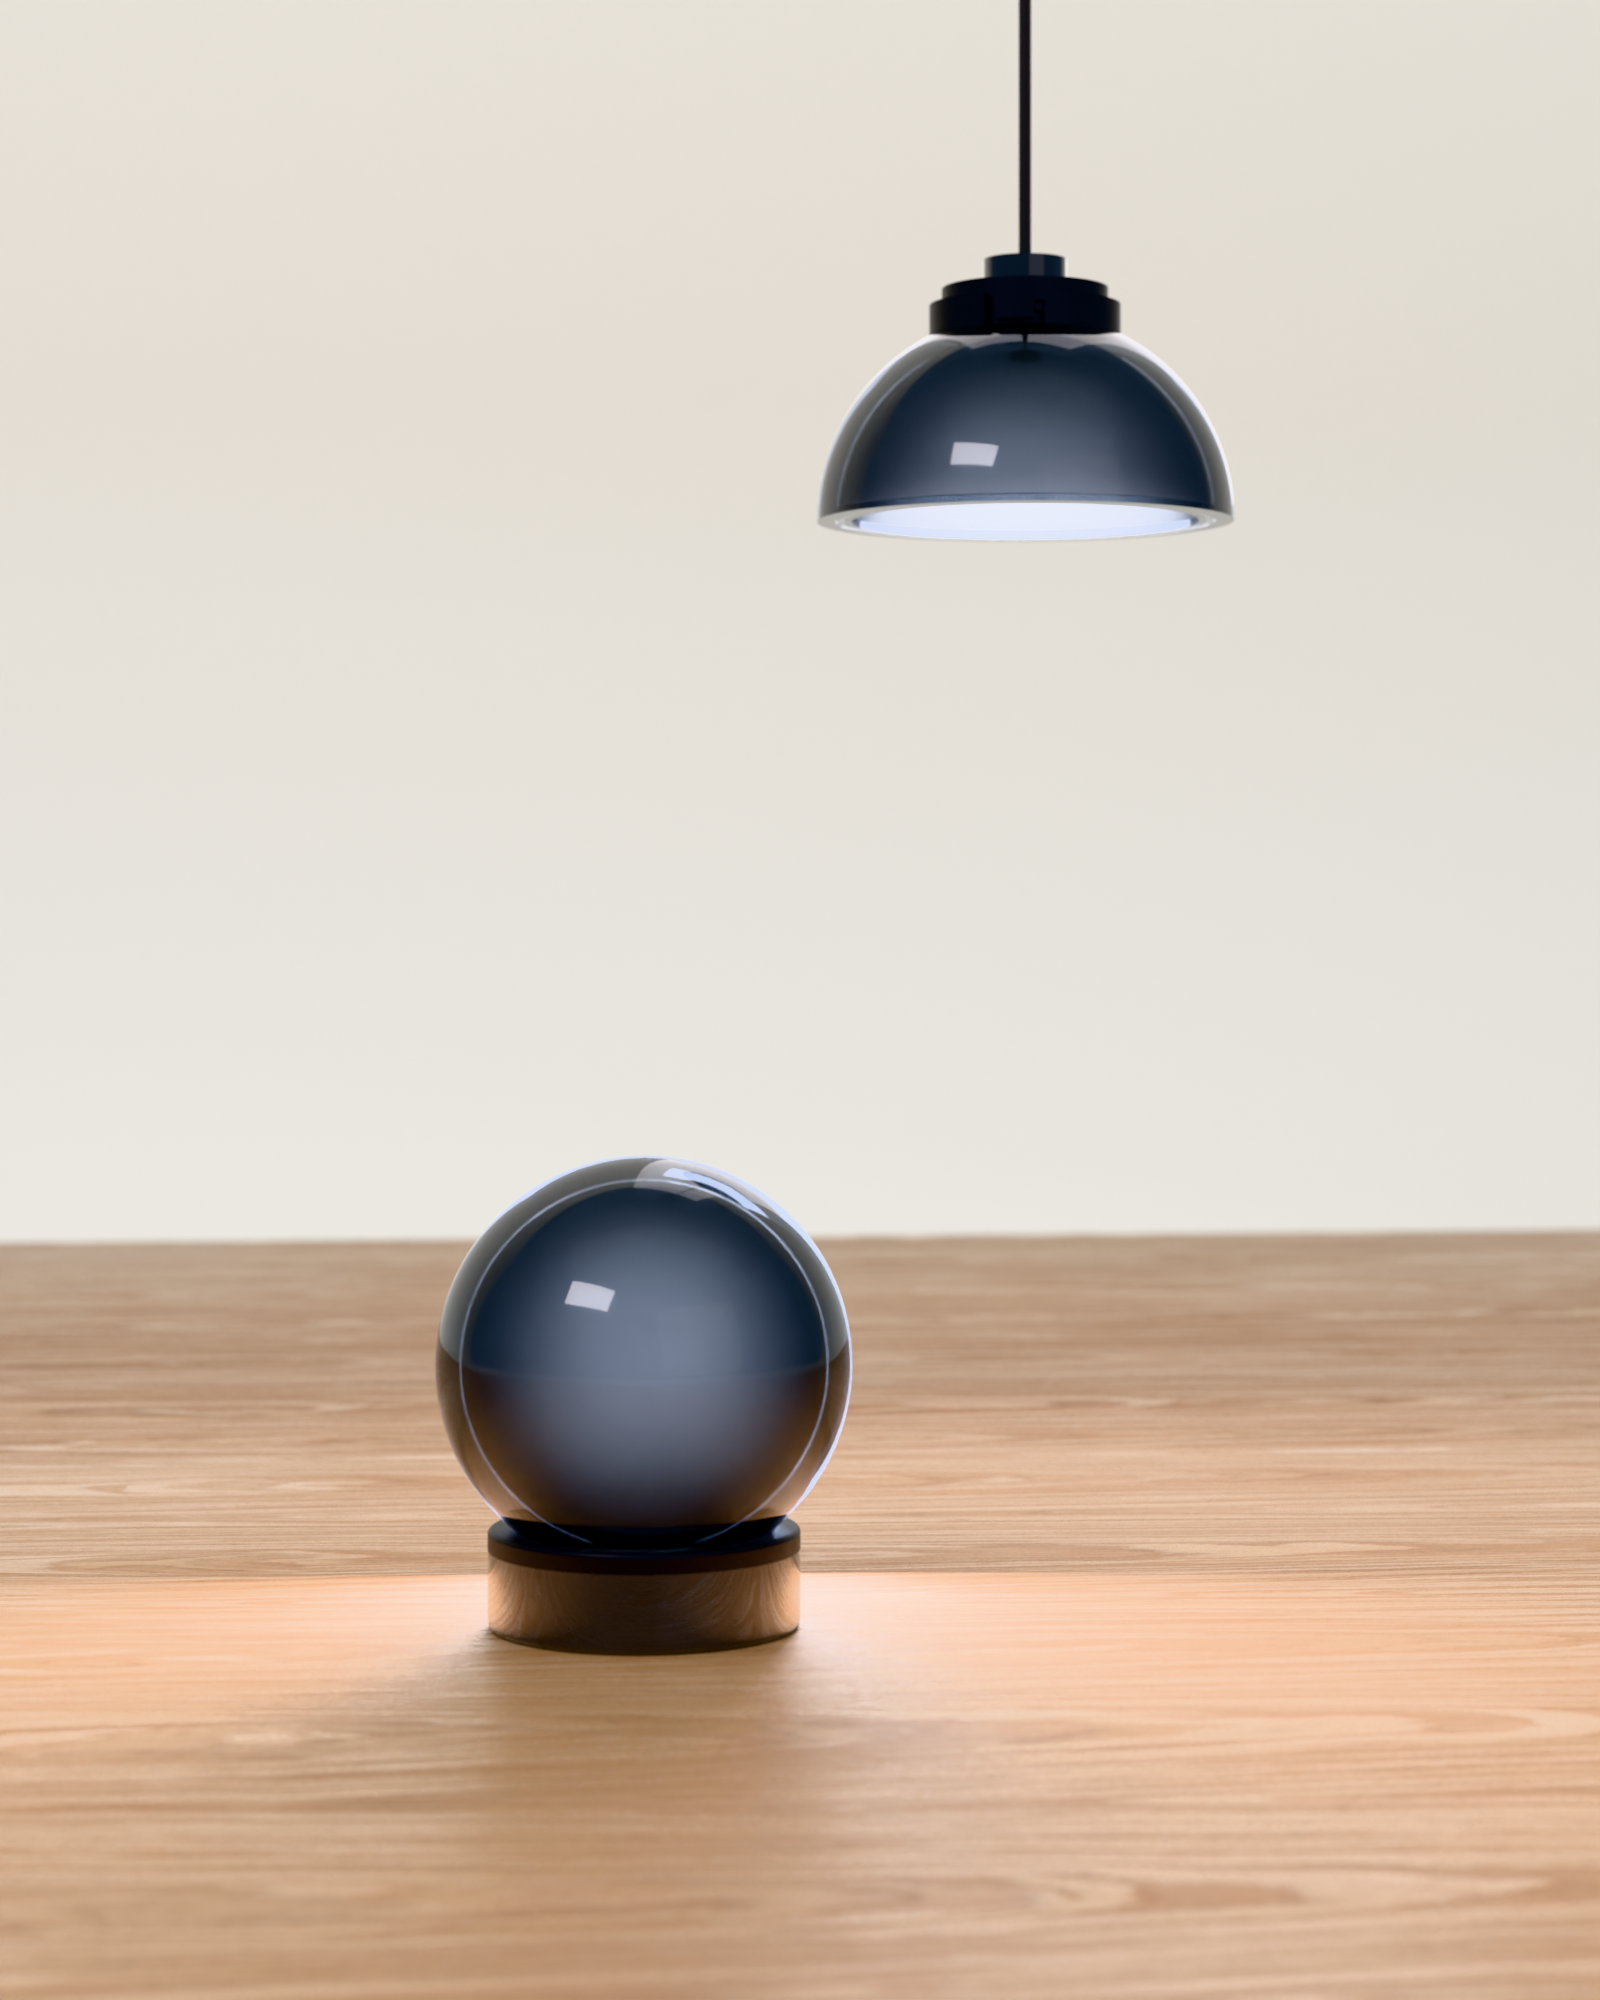
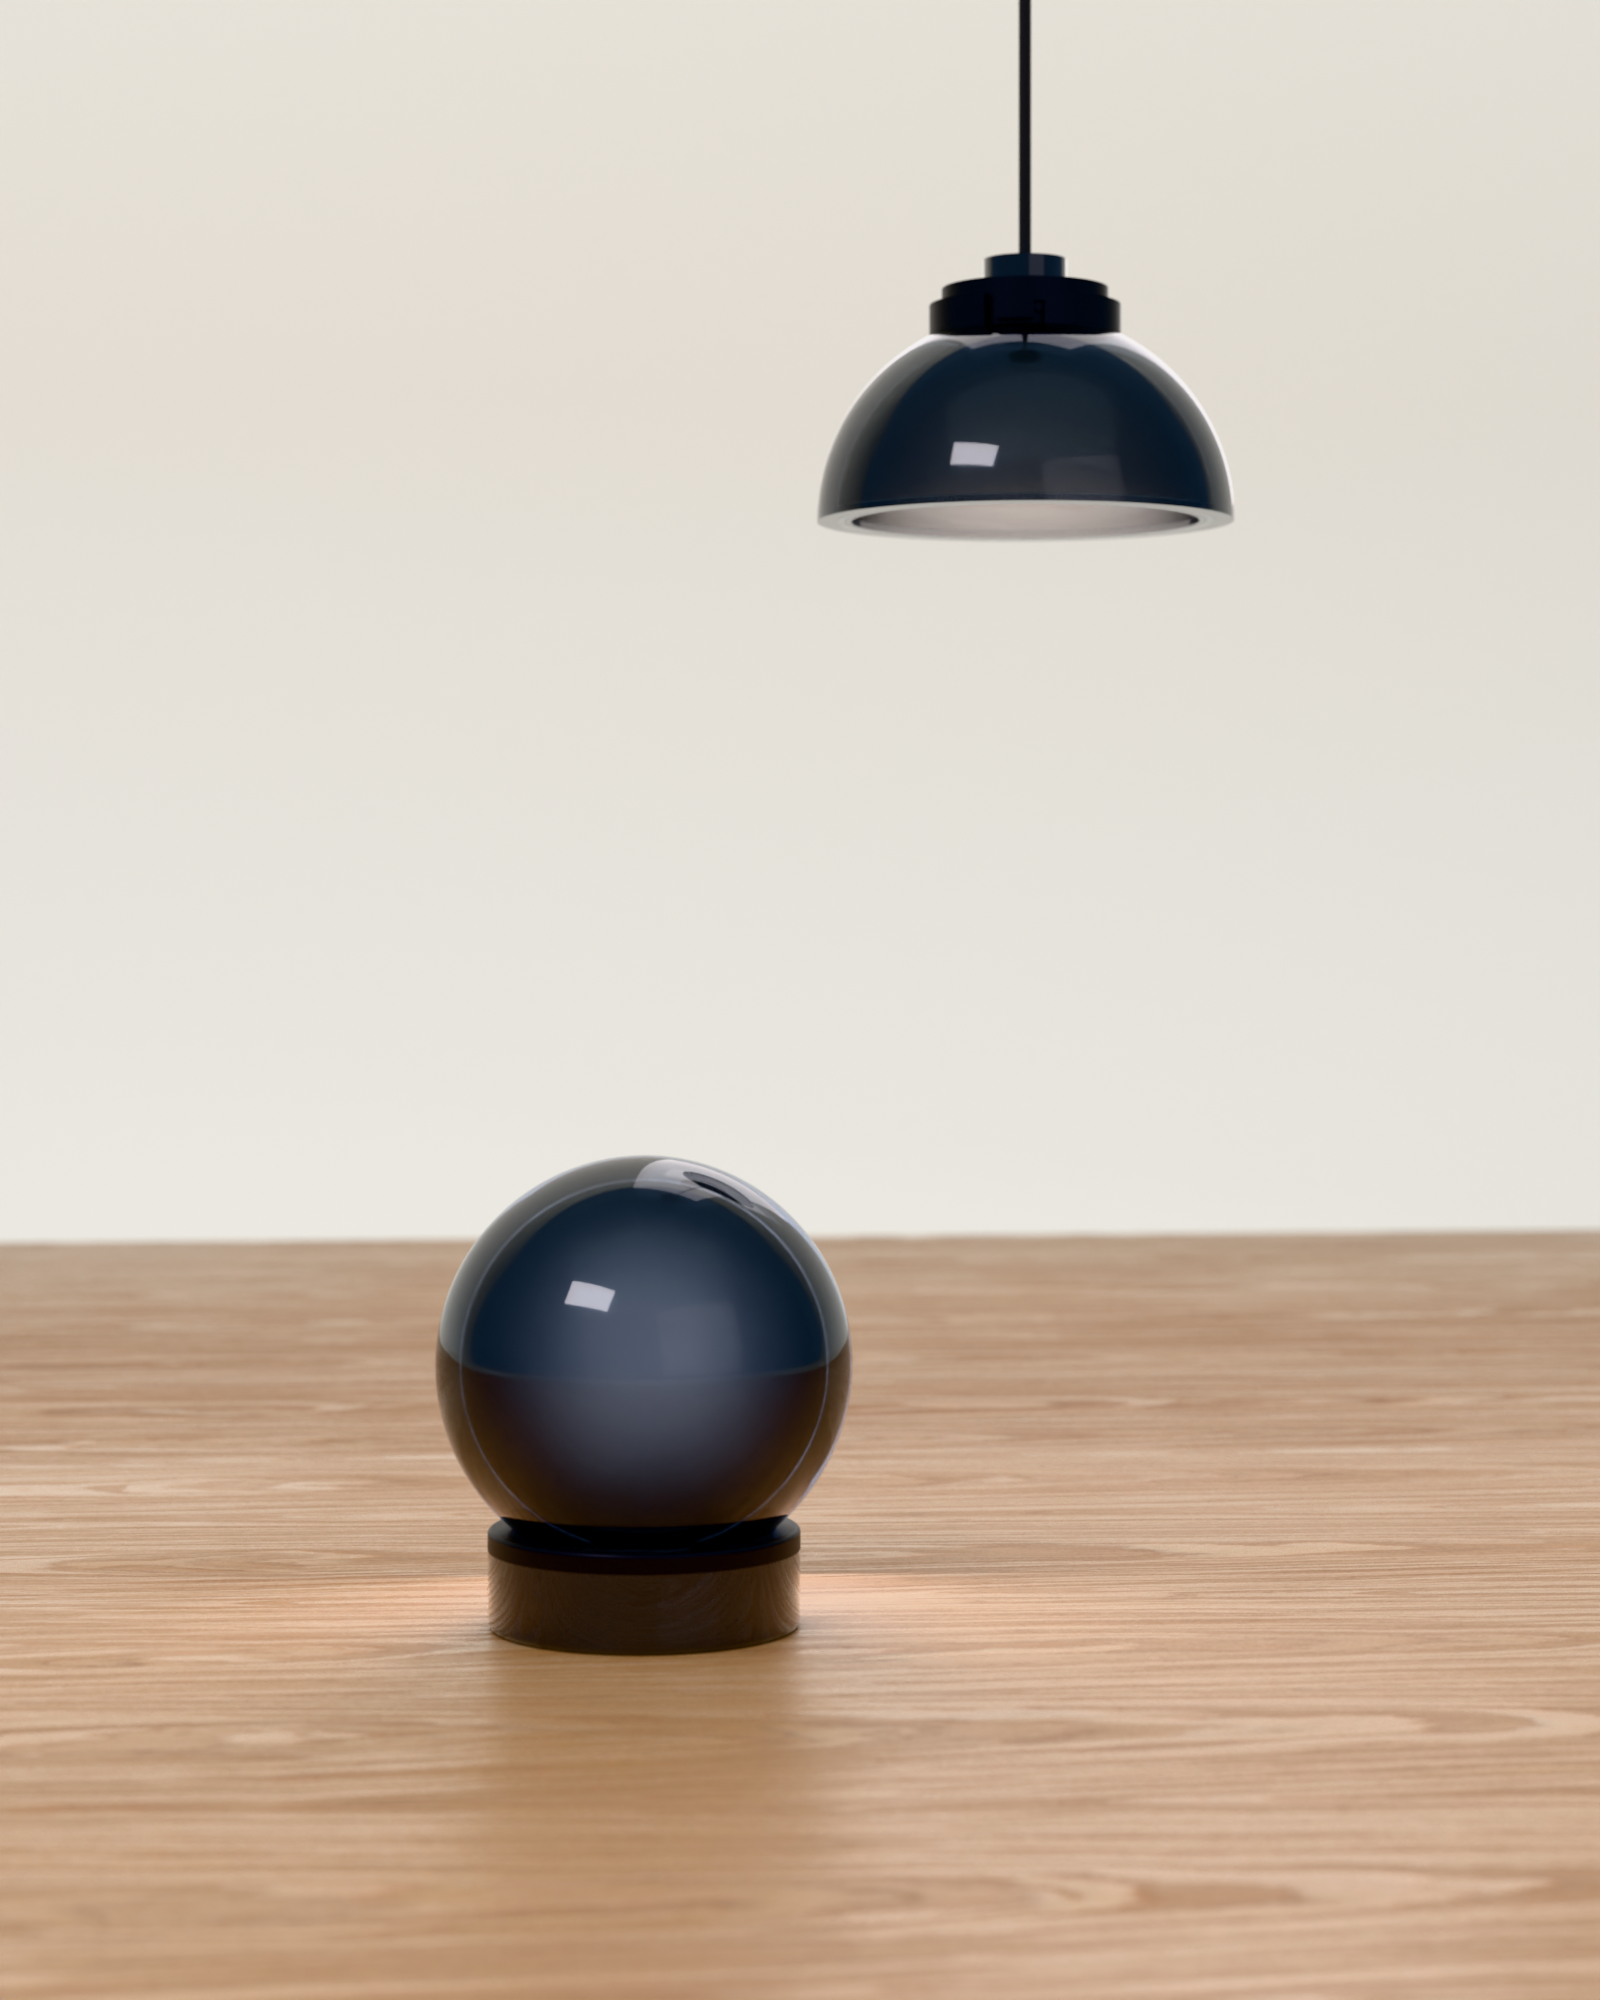
Dome and Orb site set, round 32f: the unlit pair off (the helper lights down), Planet's noshadow back in the kit piece, the lamps' light values for Planet
Claude-Session: https://claude.ai/code/session_01EzXiVbjfzEQxoHpTzMGQ9z

diff --git a/studio/engine/kit_ext/earf_moon.py b/studio/engine/kit_ext/earf_moon.py
@@ -19,7 +19,10 @@ Round 32d, the pick (spinoffs/barkhorn/companions/crystal.py): `fn` "dome" (the 
 spots its rim, `ceiling` as above) and "orb" (the cordless crystal ball; spots the table). Their frost is set within
 the tint, and it is the liner that glows (`shade_glow`, default 0.25); `lamp_w` defaults 9 and 3. For a spot or the
 piece: `hide` (a pattern of part names, e.g. "hub|pins|cob|gland|cord|canopy" for a spare cover alone), `cover_drop`
-(m) and `cover_turn` (deg) to show the swap, and `lamp`: false for no light.
+(m) and `cover_turn` (deg) to show the swap, and `lamp`: false for no light. `noshadow` (a pattern of part names, e.g.
+COVER) makes those parts cast no shadow, so the hidden lamp lights the room through them (Cycles passes a lamp's light
+through glass only as caustics; Planet's loft, f7c99a4); unset, every part casts its shadow, as before. (Planet r38:
+restored here; round 32f's kit had dropped it, and the bar went dark, 25.6 to 6.5.)
 
 Round 32f: the hardware is black (black anodised aluminium, black polished acrylic), in the GLBs themselves. The Orb
 plugs in over USB-C as standard; for a spot or the piece, `cable` (default true: its black fabric cable, dressed
@@ -95,6 +98,7 @@ def _place(bpy, which, name, p, kit):
         if which in CANOPY_TOP_MM and p.get('ceiling') is not None:
             lift = p['ceiling'] - s['position'][2] - CANOPY_TOP_MM[which] / 1000
         hide = s.get('hide', p.get('hide', ''))
+        noshadow = p.get('noshadow', '')
         cart_off = 0.0
         if which == 'orb':
             # round 32f: plug-in, the cartridge an option (none, in, out), the cable shown or not
@@ -126,6 +130,8 @@ def _place(bpy, which, name, p, kit):
                 k = (z1 - z0 + lift) / (z1 - z0)
                 M = Matrix.Translation((0, 0, z0)) @ Matrix.Diagonal((1, 1, k, 1)) @ Matrix.Translation((0, 0, -z0))
             ob.matrix_world = T @ M
+            if noshadow and PR._match(pname, noshadow):
+                ob.visible_shadow = False
             objs.append(ob)
         if s.get('lamp', p.get('lamp', True)) is False:
             continue

diff --git a/spinoffs/barkhorn/companions/lamps_site.py b/spinoffs/barkhorn/companions/lamps_site.py
@@ -71,6 +71,13 @@ def unlit():
         if p.get('fn') == 'orb':
             p.update(cable=False, cartridge='in')
     s['lights']['thru_orb'].update(target=[-0.05, -1.45, 0.45], irradiance=1.5)
+    # s1 (5.5, 5.5), and the coordinator for the caption "Off, in Smoke.": the Dome's underside read as a lit white
+    # disc and a warm pool lay round the Orb's base, both "on". Both lamps are off (lamp false, no glow): it was the
+    # helper lights. The light through the ball kept to a faint core, the one through the Dome's mouth nearly out, and
+    # the bounce under them warm (at 5000 K it turned the frosted liner blue-white)
+    s['lights']['thru_orb']['irradiance'] = 0.15
+    s['lights']['thru_dome'].update(irradiance=0.04, color=3400)
+    s['lights']['bounce'].update(color=3500)
     return s
 
 

diff --git a/spinoffs/barkhorn/companions/README.md b/spinoffs/barkhorn/companions/README.md
@@ -569,3 +569,30 @@ unlit base.
 on all the lit frames, now the Domes row too (round 32e's read it as off), and the unlit Orb read as off; the unlit
 Dome read as faintly on. Expensive: the unlit pair ("most expensive"), the Orb hero ("fairly expensive"); mid for the
 Orbs row and the Dome hero; cheap for the Domes row and the cartridge. The material reads as glass throughout.
+
+**The lamps' light in the site frames, for Planet to match** (the kit piece's `shade_glow` and `lamp_w`; the liner's
+`materials.liner.glow_color`; every frame at exposure 0.15 and a 4300 K balance, as in `lamps_site.py`):
+
+| Frame | `shade_glow` | `lamp_w` | `glow_color` |
+|---|---|---|---|
+| `lamps-orbs` (a piece a tint) | 1.3 × the tint's gain: Ember 1.3, Dust 1.3, Acid 1.17, Poison 1.17, Ice 0.975, Haze 1.105, Fog 0.585, Smoke 0.78 | 4.0 | #FFDCB8 |
+| `lamp-orb` (Ember) | 0.8 | 3.0 | #FFDCB8 |
+| `lamps-domes` | Ember and Dust 0.75, Acid and Poison 0.675, Ice 0.562, Haze 0.85, Fog 0.25, Smoke 0.45 | 4.5, plus a 18 W spot a dome in its tint, 40° | #FFF3E6 |
+| `lamp-dome` (Ember) | 0.9 | 15.0 | #FFDCB8 |
+
+An Orb blows to near white above about 1.3 for Ember and Dust (Acid's and the pale tints' gains are lower for that
+reason): the liner glows evenly by design, so its level sets how saturated the ball reads.
+
+`earf_moon.py` carries Planet's `noshadow` again (27f39bf on r32-planet; round 32f's kit had dropped it).
+
+**The unlit pair, again** (the coordinator, for the caption "Off, in Smoke."): the Dome's underside read as a lit white
+disc and a warm pool lay round the Orb's base. Both lamps were off; it was the helper lights. The light through the
+ball keeps to a faint core (1.5 to 0.15), the one through the Dome's mouth nearly out (0.3 to 0.04, 3400 K), and the
+bounce under them warm (5000 to 3500 K).
+
+**The catch** (s1, 5.0, 5.0): with the hub black, its L-slots sink into black on black. Raking strips (s2, tried in a
+proof) changed nothing: anodised black shows only a specular, so the slots need a reflector placed for the camera's
+angle, or a lighter anodise on a sample. It stays at s1 for now; the read test named it a pendant's collar, off, mid.
+Read again at 600 px: the Orb off; the Dome "faintly on" (a little glow at the rim, no pool), so closer to the caption
+but not yet fully dark; and now "mid-range", where the lit-helper version read "most expensive": without that light
+the smoked pair goes murky on the pale page. The next step for it is a crisp edge light on both, not light through them.
